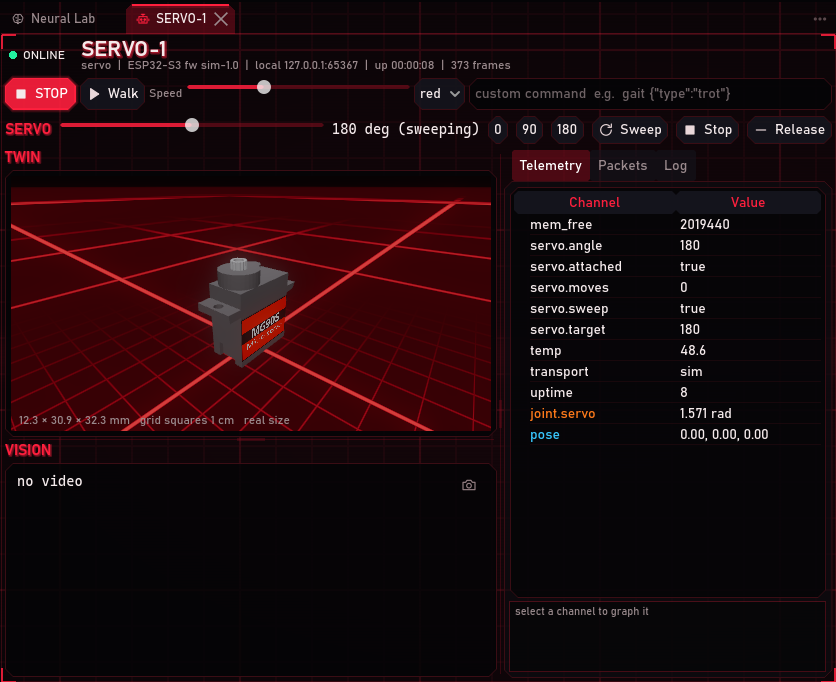
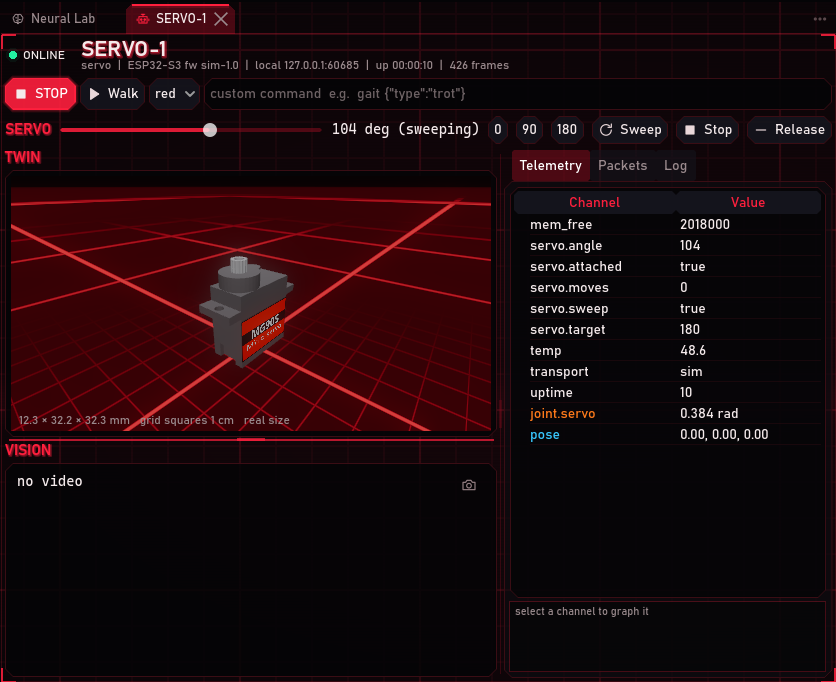
Tutorials: retaken servo robot screens (no 0..3 Speed slider)

diff --git a/tutorials/import-3d-models.html b/tutorials/import-3d-models.html
@@ -238,7 +238,7 @@ profiles move like their own kind; any other kind (a rover, an arm) walks like t
 <strong>TWIN</strong> view:</p>
 <ul>
 <li><strong>Drag</strong> to orbit, <strong>scroll</strong> to zoom, <strong>F</strong> to stop or start following the robot.</li>
-<li>The corner shows the model's size (here 12.3 × 30.9 × 32.3 mm: thickness, height with the gear, length across
+<li>The corner shows the model's size (here 12.3 × 32.2 × 32.3 mm: thickness, height with the gear, length across
   the mounting tabs) and the grid squares in view. Compare it with the real part; if it is 1000 times too big or
   small, fix <strong>Scale</strong>.</li>
 <li>Move the robot (the servo screen's <strong>0 / 90 / 180</strong> or <strong>Sweep</strong>): only the moving part should turn, about the
